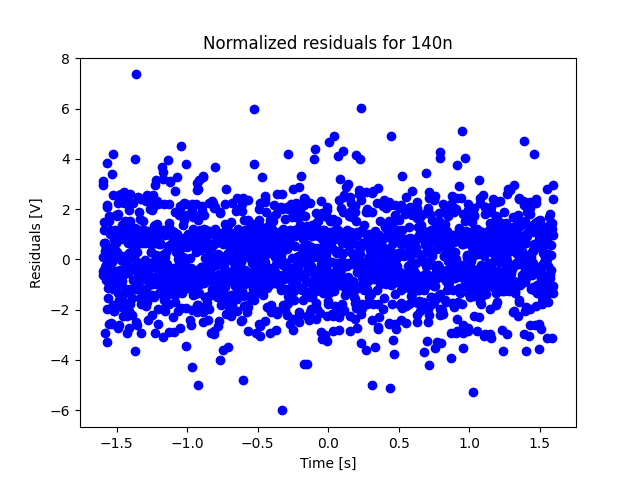
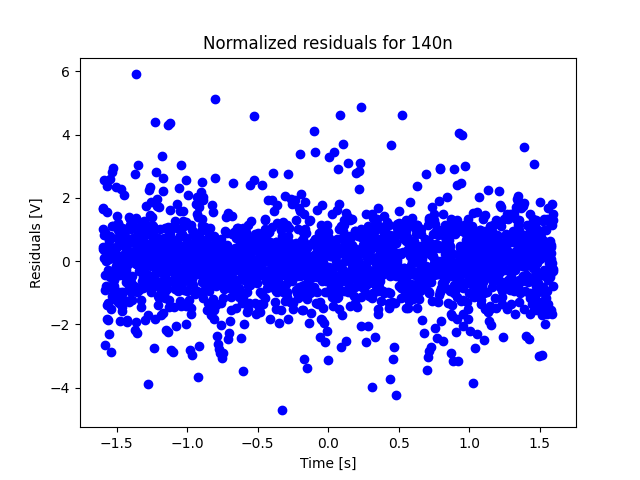
fix sign of phase shift

diff --git a/capstone/sinefit.py b/capstone/sinefit.py
@@ -27,7 +27,7 @@ time3 = df3['TIME'].to_numpy() #s
 
 # sine function
 def sin(t, a, w, phi):
-    return a*np.sin(w*t - phi)
+    return a*np.sin(w*t + phi)
 
 # 140n plot
 fig = plt.figure()
